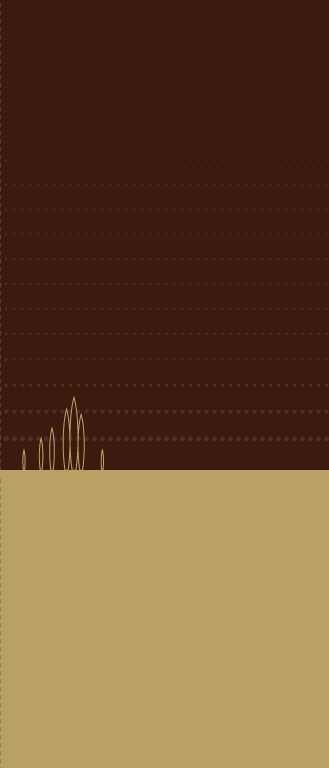
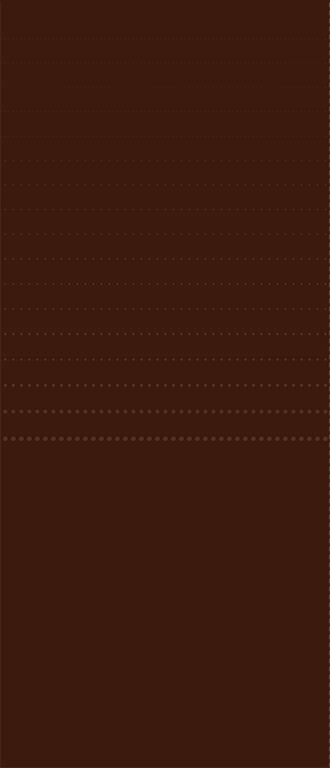
Backgrounds now scale and infographic content is always centered

diff --git a/index.html b/index.html
@@ -22,44 +22,51 @@
         </div>
       </div>
       <div class="phase phase1" data-start="0" data-rest="1428" data-end="2856">
+        <img class="scaledbackground autotile" src="img/ui/bg/phase1.png" width="1024" height="768" />
         <div class="phase-wrapper">
-          <img class="wrightbros scaleable animates" src="img/ui/misc/wrightbros.png" width="183" height="254" alt="" data-restbottom="140" data-restright="80" data-startbottom="-300" data-endbottom="-300" />
+          <img class="wrightbros scaleable animates" src="img/ui/misc/wrightbros.png" width="183" height="254" alt="" data-restbottom="140" data-restright="80" data-startbottom="-100" data-endbottom="-100" />
           <img class="wrightplane scaleable animates" src="img/ui/planes/phase1.png" width="592" height="304" alt="" data-resttop="312" data-restleft="32" data-starttop="0" data-startleft="-1200" data-endtop="-230" data-endleft="1000" />
           <img class="wrightheader scaleable animates" src="img/ui/headers/phase1.png" width="497" height="173" alt="" data-resttop="164" data-restright="115" data-startright="-1400" data-endright="1400" />
         </div>
       </div>
       <div class="phase phase2" data-start="1429" data-rest="2856" data-end="4284">
+        <img class="scaledbackground autotile" src="img/ui/bg/phase2.png" width="1024" height="768" />
         <div class="phase-wrapper">
           <img class="douglasheader scaleable animates" src="img/ui/headers/phase2.png" width="494" height="173" alt="" data-resttop="164" data-restleft="124" data-startleft="1400" data-endleft="-1400" />
           <img class="douglasplane scaleable animates" src="img/ui/planes/phase2.png" width="511" height="401" alt="" data-resttop="300" data-restleft="112" data-starttop="230" data-startleft="-1400" data-endtop="-230" data-endleft="1000" />
         </div>
       </div>
       <div class="phase phase3" data-start="2857" data-rest="4284" data-end="5712">
-        <img class="scaledbackground" src="img/ui/bg/phase3.png" width="269" height="654" />
+        <img class="scaledbackground autotile" src="img/ui/bg/phase3.png" width="1024" height="768" />
+        <img class="scaledbackground stewardess" src="img/ui/bg/phase3-stewardess.png" width="269" height="654" />
         <div class="phase-wrapper">
           <img class="cometheader scaleable animates" src="img/ui/headers/phase3.png" width="493" height="338" alt="" data-resttop="164" data-restleft="328" data-startleft="1400" data-endleft="-1400" />
           <img class="cometplane scaleable animates" src="img/ui/planes/phase3.png" width="511" height="401" alt="" data-resttop="177" data-restleft="48" data-starttop="230" data-startleft="-1400" data-endtop="-230" data-endleft="1000" />
         </div>
       </div>
       <div class="phase phase4" data-start="4285" data-rest="5712" data-end="7140">
+        <img class="scaledbackground autotile" src="img/ui/bg/phase4.png" width="1024" height="768" />
         <div class="phase-wrapper">
           <img class="concordeheader scaleable animates" src="img/ui/headers/phase4.png" width="500" height="173" alt="" data-resttop="413" data-restleft="300" data-startleft="1400" data-endleft="-1400" />
           <img class="concordeplane scaleable animates" src="img/ui/planes/phase4.png" width="829" height="184" alt="" data-resttop="190" data-restleft="15" data-starttop="230" data-startleft="-1400" data-endtop="-230" data-endleft="1000" />
         </div>
       </div>
       <div class="phase phase5" data-start="5713" data-rest="7140" data-end="8568">
+        <img class="scaledbackground autotile" src="img/ui/bg/phase5.png" width="1024" height="768" />
         <div class="phase-wrapper">
           <img class="boeingheader scaleable animates" src="img/ui/headers/phase5.png" width="494" height="173" alt="" data-resttop="413" data-restleft="367" data-startleft="1400" data-endleft="-1400" />
           <img class="boeingplane scaleable animates" src="img/ui/planes/phase5.png" width="697" height="332" alt="" data-resttop="116" data-restleft="91" data-starttop="230" data-startleft="-1400" data-endtop="-230" data-endleft="1000" />
         </div>
       </div>
       <div class="phase phase6" data-start="7141" data-rest="8568" data-end="9060">
+        <img class="scaledbackground autotile" src="img/ui/bg/phase6.png" width="1024" height="768" />
         <div class="phase-wrapper">
           <img class="boeing2header scaleable animates" src="img/ui/headers/phase6.png" width="508" height="173" alt="" data-resttop="163" data-restleft="124" data-startleft="1400" data-endleft="-1400" />
           <img class="boeing2plane scaleable animates" src="img/ui/planes/phase6.png" width="817" height="232" alt="" data-resttop="296" data-restleft="60" data-starttop="230" data-startleft="-1400" data-endtop="-230" data-endleft="1000" />
         </div>
       </div>
       <div class="phase phase7" data-start="8569" data-rest="8957">
+        <img class="scaledbackground autotile" src="img/ui/bg/phase7.png" width="1024" height="768" />
         <div class="phase-wrapper">
           <img class="dreamlinerheader scaleable animates" src="img/ui/headers/phase7.png" width="532" height="173" alt="" data-resttop="163" data-restleft="124" data-startleft="1400" data-endleft="-1400" />
           <img class="dreamlinerplane scaleable animates" src="img/ui/planes/phase7.png" width="817" height="232" alt="" data-resttop="163" data-restleft="-80" data-starttop="-50" data-startleft="-1400" />

diff --git a/js/ResizeHandler.js b/js/ResizeHandler.js
@@ -14,13 +14,29 @@ define(function(){
 		this.$doc = opts.$document;
 	}
 
-	ResizeHandler.prototype.scaleVisisbleBackgroundImages = function(toHeight){
+	ResizeHandler.prototype.scaleBackgroundImages = function(toHeight,fillWidth){
 		// scaledbackground always matches window height
 		this.$backgrounds.each(function(){
 			var $this = $(this),
-				thisRatio = toHeight / this.naturalHeight;
+				thisRatio = toHeight / this.naturalHeight,
+				toWidth = Math.floor(this.naturalWidth*thisRatio),
+				totalWidth = toWidth,
+				$clone;
 
-			$this.height(toHeight).width((this.naturalWidth*thisRatio)|0);
+			$this.height(toHeight).width(toWidth);
+
+			if(!$this.hasClass('autotile')){return;}
+
+			$this.parent().find('.clonebackground').remove();
+
+			while(totalWidth<fillWidth){
+				$clone = $this.clone();
+				$clone.removeClass('scaledbackground').addClass('clonebackground');
+				$clone.css({position:'absolute',left:totalWidth});
+				$this.after($clone);
+				totalWidth+=toWidth;
+			}
+
 		});
 	};
 
@@ -75,29 +91,29 @@ define(function(){
 	ResizeHandler.prototype.bind = function(){
 		var self = this;
 
-		this.$window.resize(function(){
+		this.$window.resize(_.debounce(function(){
 			var ww = self.$window.width(),
 				wh = self.$window.height(),
 				wRatio = ww/self.baseDims[0],
 				hRatio = wh/self.baseDims[1],
-				smallestRatio = Math.min(wRatio,hRatio),
+				smallestRatio = Math.min(wRatio,hRatio,1),
 				phaseTopMargin = Math.floor((wh-(self.baseDims[1]*smallestRatio))/2); // window height minus phase height div 2
 
-			self.scaleVisisbleBackgroundImages(wh);
+			self.scaleBackgroundImages(wh,ww);
 
 			// if under min supported size then scale everything down
-			if(wRatio<1 || hRatio<1){
+			// if(wRatio<1 || hRatio<1){
 				self.scaleHeaderLogo(smallestRatio);
 				self.scalePhaseTo(smallestRatio,phaseTopMargin);
-			}else{
-				self.scaleHeaderLogo(1);
-				self.scalePhaseTo(1,phaseTopMargin);
-			}
+			// }else{
+				// self.scaleHeaderLogo(1);
+				// self.scalePhaseTo(1,phaseTopMargin);
+			// }
 
 			if(self.resizeCb){
 				self.resizeCb(Math.min(1,smallestRatio),phaseTopMargin);
 			}
-		});
+		},100));
 	};
 
 	ResizeHandler.prototype.onResize = function(cb){

diff --git a/css/ui.css b/css/ui.css
@@ -115,34 +115,34 @@ ul {
 	bottom: 0;
 }
 .phase0 {
-	background: #002d41 url(../img/ui/bg/phase0tile.png) bottom left repeat-x;
+	background: #002d41;
 }
 .phase1 {
-	background: #3d1a0e url(../img/ui/bg/phase1tile.png) bottom left repeat-x;
+	background: #3d1a0e;
 	opacity: 0;
 }
 .phase2 {
-	background: #013b2b url(../img/ui/bg/phase2tile.png) bottom left repeat-x;
+	background: #013b2b;
 	opacity: 0;
 }
 .phase3 {
-	background: #002d41 url(../img/ui/bg/phase3tile.png) bottom left repeat-x;
+	background: #002d41;
 	opacity: 0;
 }
 .phase4 {
-	background: #3d1a0e url(../img/ui/bg/phase4tile.png) bottom left repeat-x;
+	background: #3d1a0e;
 	opacity: 0;
 }
 .phase5 {
-	background: #013b2b url(../img/ui/bg/phase5tile.png) bottom left repeat-x;
+	background: #013b2b;
 	opacity: 0;
 }
 .phase6 {
-	background: #002d41 url(../img/ui/bg/phase6tile.png) bottom left repeat-x;
+	background: #002d41;
 	opacity: 0;
 }
 .phase7 {
-	background: #002d41 url(../img/ui/bg/phase7tile.png) bottom left repeat-x;
+	background: #002d41;
 	opacity: 0;
 }
 .phase-wrapper {
@@ -195,7 +195,7 @@ ul {
 	left: 124px;
 }
 /* phase 3 */
-.phase3 .scaledbackground {
+.phase3 .stewardess {
 	padding-bottom: 30px;
 }
 .cometheader {

diff --git a/js/TransitionHandler.js b/js/TransitionHandler.js
@@ -1,5 +1,5 @@
 /*
- * window resize handler
+ * transition handler
  */
 define(function(){
 	'use strict';
@@ -133,9 +133,9 @@ define(function(){
 					// play boundary in
 					perc = (scrollLeft - boundary.rest)/(boundary.start - boundary.rest);
 					self.setBoundaryIn(boundary,perc);
-					if(perc>0.95 && !direction){
+					if(perc>0.90 && !direction){
 						self.hideBoundary(boundary);
-					}else if(perc>0.05 && direction){
+					}else if(perc>0.1 && direction){
 						self.showBoundary(boundary);
 					}
 
@@ -147,9 +147,9 @@ define(function(){
 					perc = (scrollLeft - boundary.rest)/(boundary.end - boundary.rest);
 					self.setBoundaryOut(boundary,perc);
 
-					if(perc>0.95 && direction){
+					if(perc>0.90 && direction){
 						self.hideBoundary(boundary);
-					}else if(perc>0.05 && !direction){
+					}else if(perc>0.1 && !direction){
 						self.showBoundary(boundary);
 					}
 
